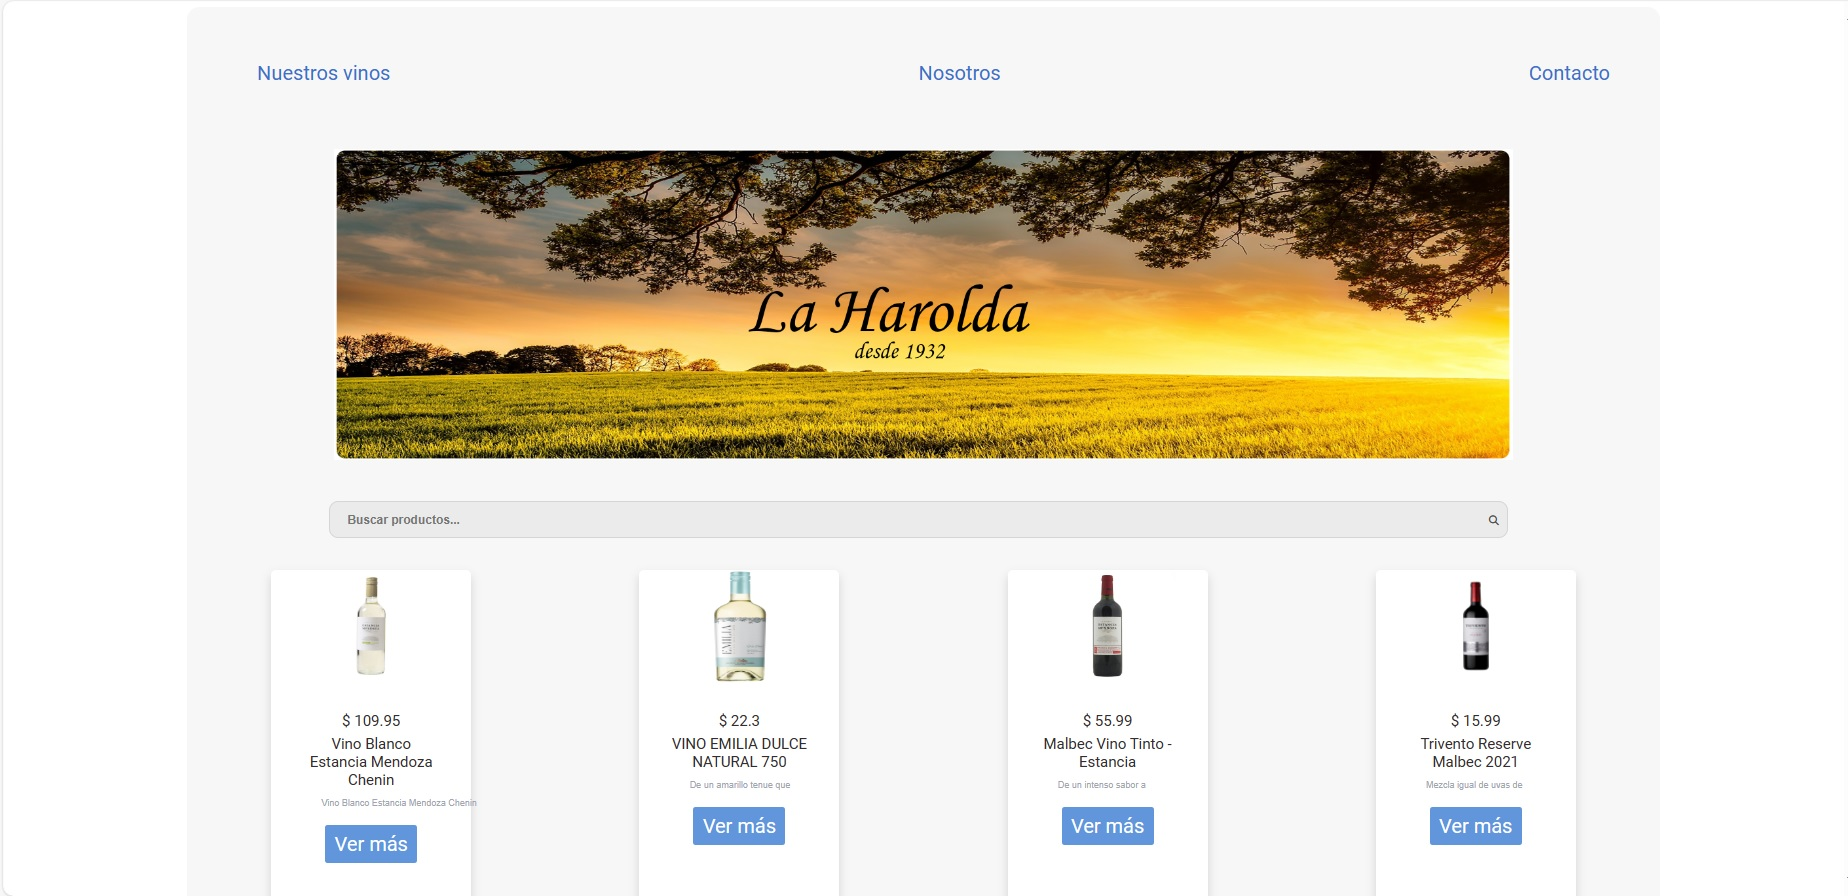
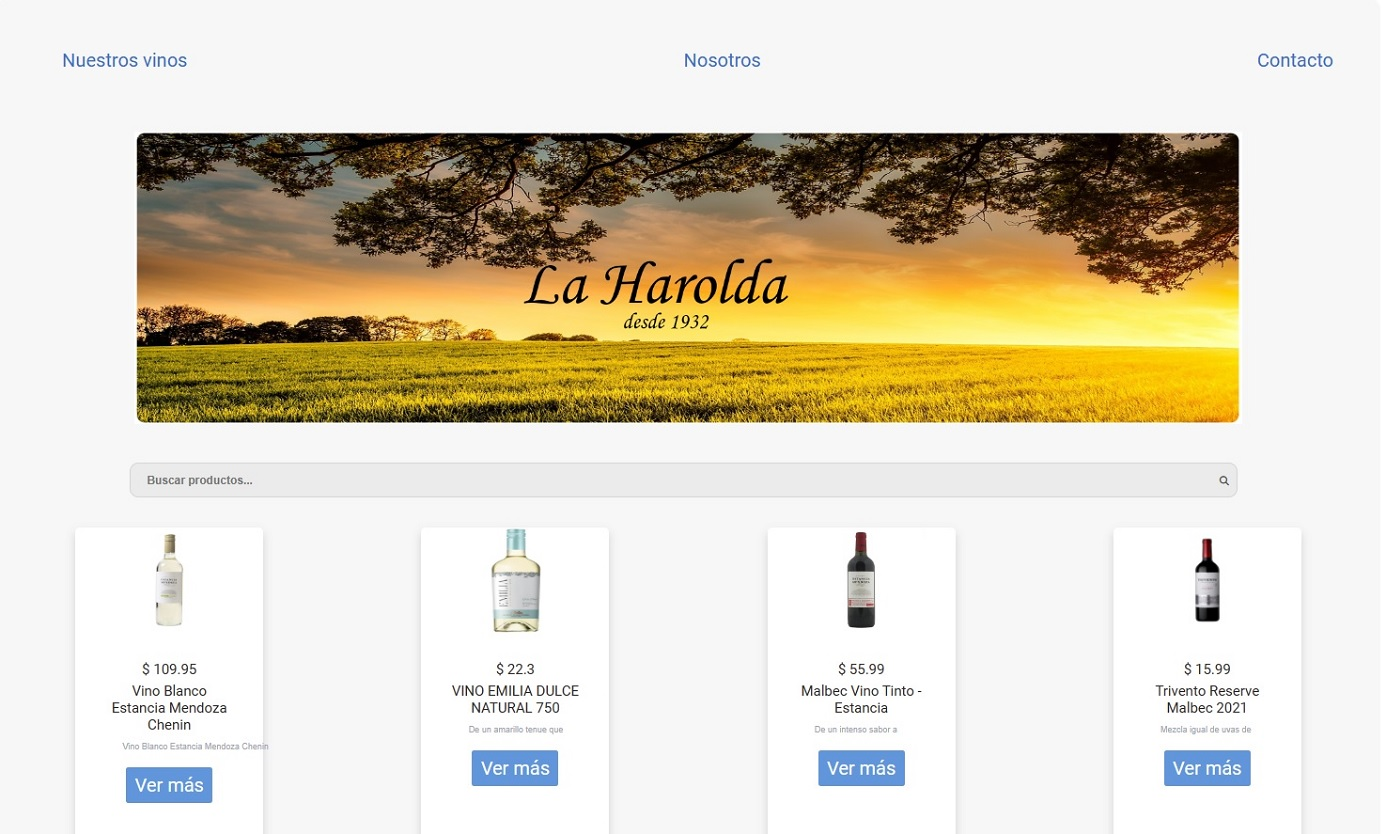
v 7.0

diff --git a/src/App.js b/src/App.js
@@ -16,6 +16,7 @@ import captura2 from "./image/captura-laharolda.jpg";
 import captura3 from "./image/captura-bitcoin.jpg";
 import captura4 from "./image/captura-applestore.jpg";
 import captura5 from "./image/captura-human-design1.jpg";
+import captura6 from "./image/captura-TiendaOnline1.jpg";
 import foto from "./image/4x4.jpg";
 import Image from 'mui-image';
 
@@ -146,6 +147,16 @@ const images2 = [{
   "download_url": "https://github.com/designer2110/designer2110.github.io/blob/master/src/image/captura-slider-web3.jpg?raw=true"
 }];
 
+const images3 = [{
+ "id": "Captura 6",
+  "author": "Dem Rom",
+  "width": 728,
+  "height": 677,
+  "download_url": "https://github.com/designer2110/designer2110.github.io/blob/master/src/image/captura-TiendaOnline1.jpg?raw=true"
+}];
+
+
+
 const [anchorElNav, setAnchorElNav] = React.useState(null);
   const [anchorElUser, setAnchorElUser] = React.useState(null);
 
@@ -219,11 +230,13 @@ const [anchorElNav, setAnchorElNav] = React.useState(null);
                 }
 
     </Carousel>
+                <br></br>
             <Typography
                 // style={{ width: "70%", margin: "auto" }}
                 color="primary"
                 component="span"
                 variant="h4"
+                className='grid-item'
               >
                 Página Fake de Diseño de Interiores Human Design
                 realizada con React implementando librería Material UI
@@ -232,6 +245,7 @@ const [anchorElNav, setAnchorElNav] = React.useState(null);
           </Grid>
           <Grid item xs={4} md={6}>
             <Paper className={classes.paper}>
+              <div className="crsl">
             <Box
   component="img"
   sx={{
@@ -242,12 +256,14 @@ const [anchorElNav, setAnchorElNav] = React.useState(null);
   }}
   alt="The house from the offer."
   src={captura2}
-/>
+/></div><br></br>
+<br></br>
             <Typography
                 // style={{ width: "70%", margin: "auto" }}
                 color="primary"
                 component="span"
                 variant="h4"
+                className='grid-item'
               >
                 Tienda de vinos - La Harolda
               </Typography>
@@ -265,18 +281,23 @@ const [anchorElNav, setAnchorElNav] = React.useState(null);
                 }
 
     </Carousel>
+    <br></br>
+<br></br>
               <Typography
                 // style={{ width: "70%", margin: "auto" }}
                 color="primary"
                 component="span"
                 variant="h4"
+                className='grid-item'
               >
                 Página con Slider - realizada en React con MUI
               </Typography>
             </Paper>
           </Grid>
-          <Grid item xs={4} md={6}>
+          <Grid item xs={4} md={6} display="flex" justifyContent="center" 
+    alignItems="center">
             <Paper className={classes.paper}>
+              <div className="crsl">
             <Box
   component="img"
   sx={{
@@ -287,12 +308,14 @@ const [anchorElNav, setAnchorElNav] = React.useState(null);
   }}
   alt="The house from the offer."
   src={captura1}
-/>
+/></div><br></br>
+<br></br>
               <Typography
                 // style={{ width: "70%", margin: "auto" }}
                 color="primary"
                 component="span"
                 variant="h4"
+                className='grid-item'
               >
                 Lalashop - tienda de articulos trabajo final React - Coderhouse
               </Typography>
@@ -302,8 +325,10 @@ const [anchorElNav, setAnchorElNav] = React.useState(null);
       </Box>
       <Box m={16}>
       <Grid container spacing={12}>
-      <Grid item xs={4} md={6}>
+      <Grid item xs={4} md={6} display="flex" justifyContent="center" 
+    alignItems="center">
             <Paper className={classes.paper}>
+              <div className="crsl">
              <Box
   component="img"
   sx={{
@@ -314,12 +339,14 @@ const [anchorElNav, setAnchorElNav] = React.useState(null);
   }}
   alt="The house from the offer."
   src={captura3}
-/>
+/></div><br></br>
+<br></br>
             <Typography
                 // style={{ width: "70%", margin: "auto" }}
                 color="primary"
                 component="span"
                 variant="h4"
+                className='grid-item'
               >
                 Página de Bitcoin
               </Typography>
@@ -327,6 +354,7 @@ const [anchorElNav, setAnchorElNav] = React.useState(null);
           </Grid>
       <Grid item xs={4} md={6}>
             <Paper className={classes.paper}>
+              <div className="crsl">
             <Box
   component="img"
   sx={{
@@ -337,14 +365,48 @@ const [anchorElNav, setAnchorElNav] = React.useState(null);
   }}
   alt="The house from the offer."
   src={captura4}
-/>
+/></div><br></br>
+<br></br>
               <Typography
                 // style={{ width: "70%", margin: "auto" }}
                 color="primary"
                 component="span"
                 variant="h4"
+                className='grid-item'
               >
                 Applestore
+              </Typography>
+            </Paper>
+          </Grid>
+          </Grid>
+          </Box>
+           <Box m={16}>
+      <Grid container spacing={12}>
+          <Grid item xs={4} md={6}>
+            <Paper className={classes.paper}>
+              <div className="crsl">
+                <a href = "https://tienda2110.vercel.app/">
+            <Box
+  component="img"
+  sx={{
+    height: 258.59,
+    width: 600,
+    // maxHeight: { xs: 233, md: 167 },
+    // maxWidth: { xs: 350, md: 250 },
+  }}
+  alt="Tienda Online"
+  src={captura6}
+/></a></div><br></br>
+<br></br>
+              <Typography
+                // style={{ width: "70%", margin: "auto" }}
+                color="primary"
+                component="span"
+                variant="h4"
+                className='grid-item'
+                
+              >
+                <a href = "https://tienda2110.vercel.app/">Tienda On Line con MP y PayPal</a>
               </Typography>
             </Paper>
           </Grid>

diff --git a/src/App.css b/src/App.css
@@ -76,3 +76,9 @@ a {
   width: 600px;
   height: 258.59px;
 }
+
+.grid-item {
+  display: grid;
+  place-items: center;
+  margin: auto;
+}
